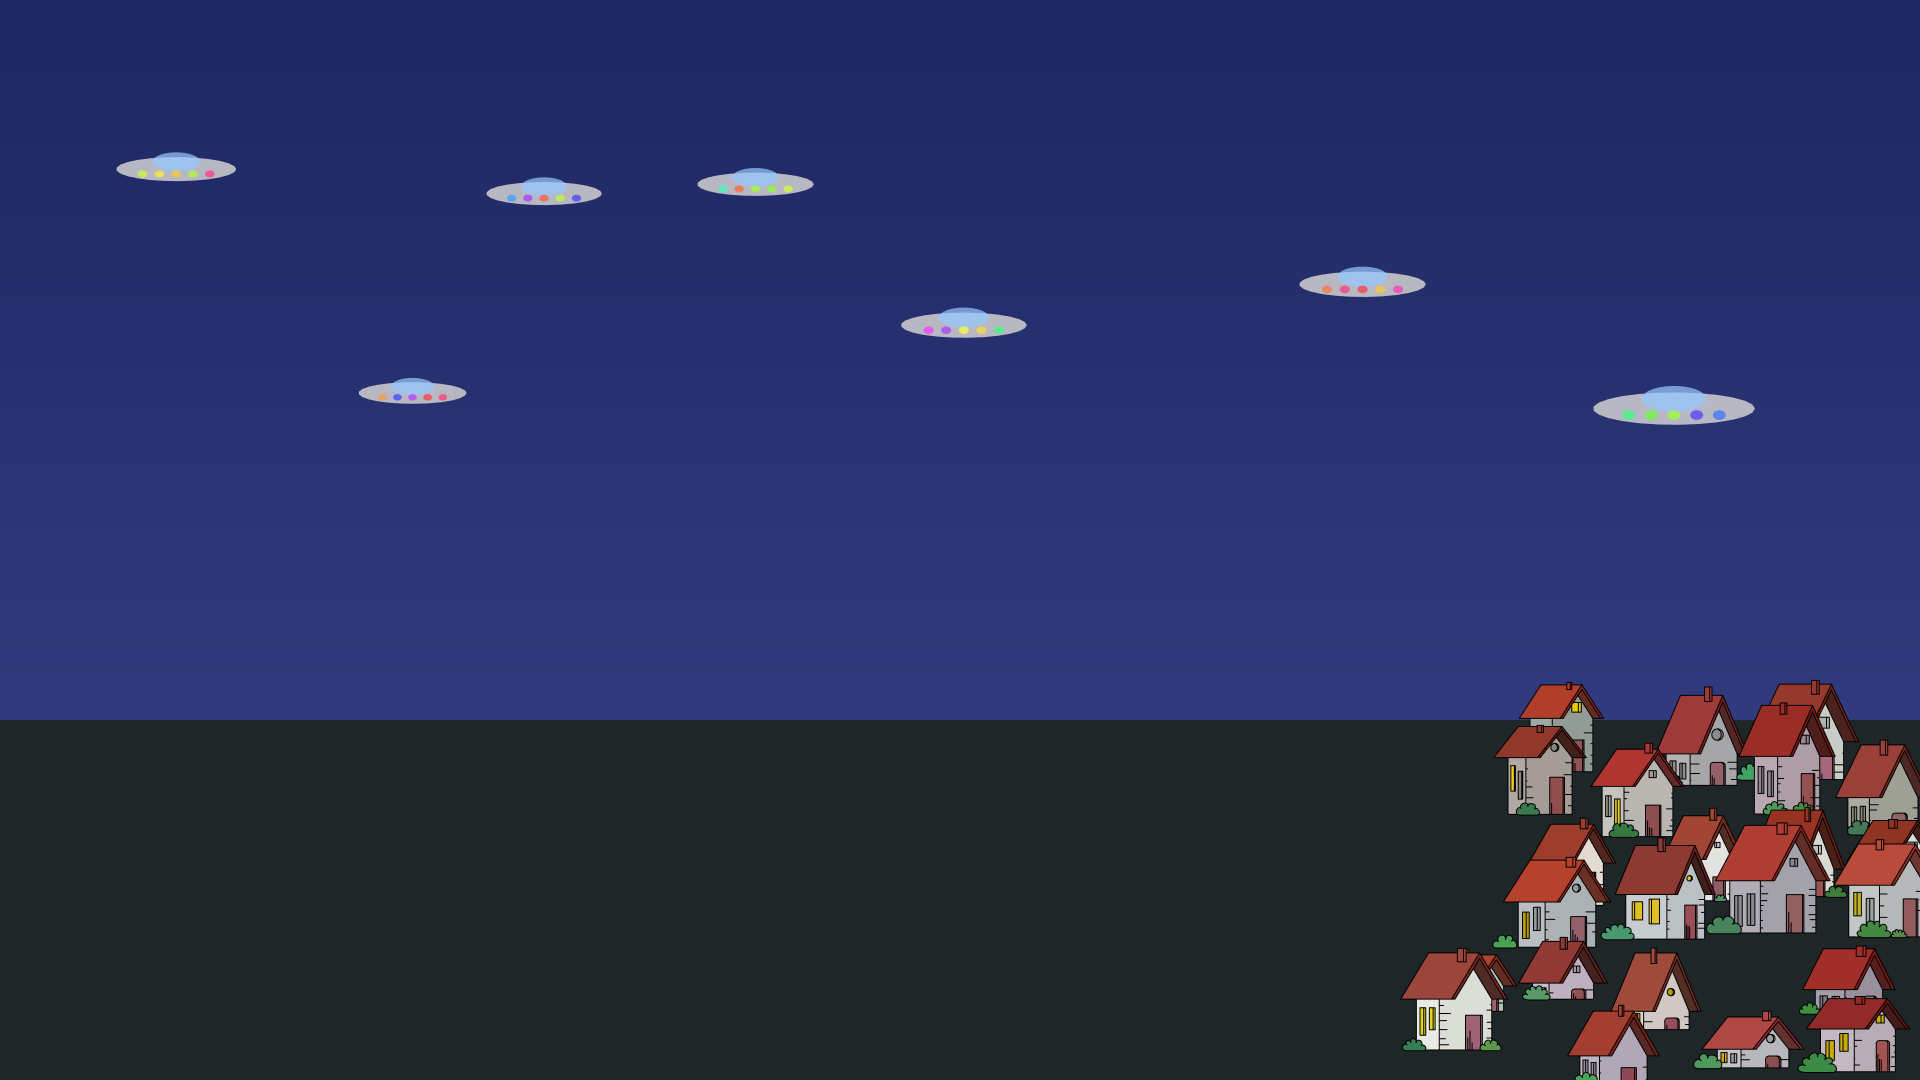
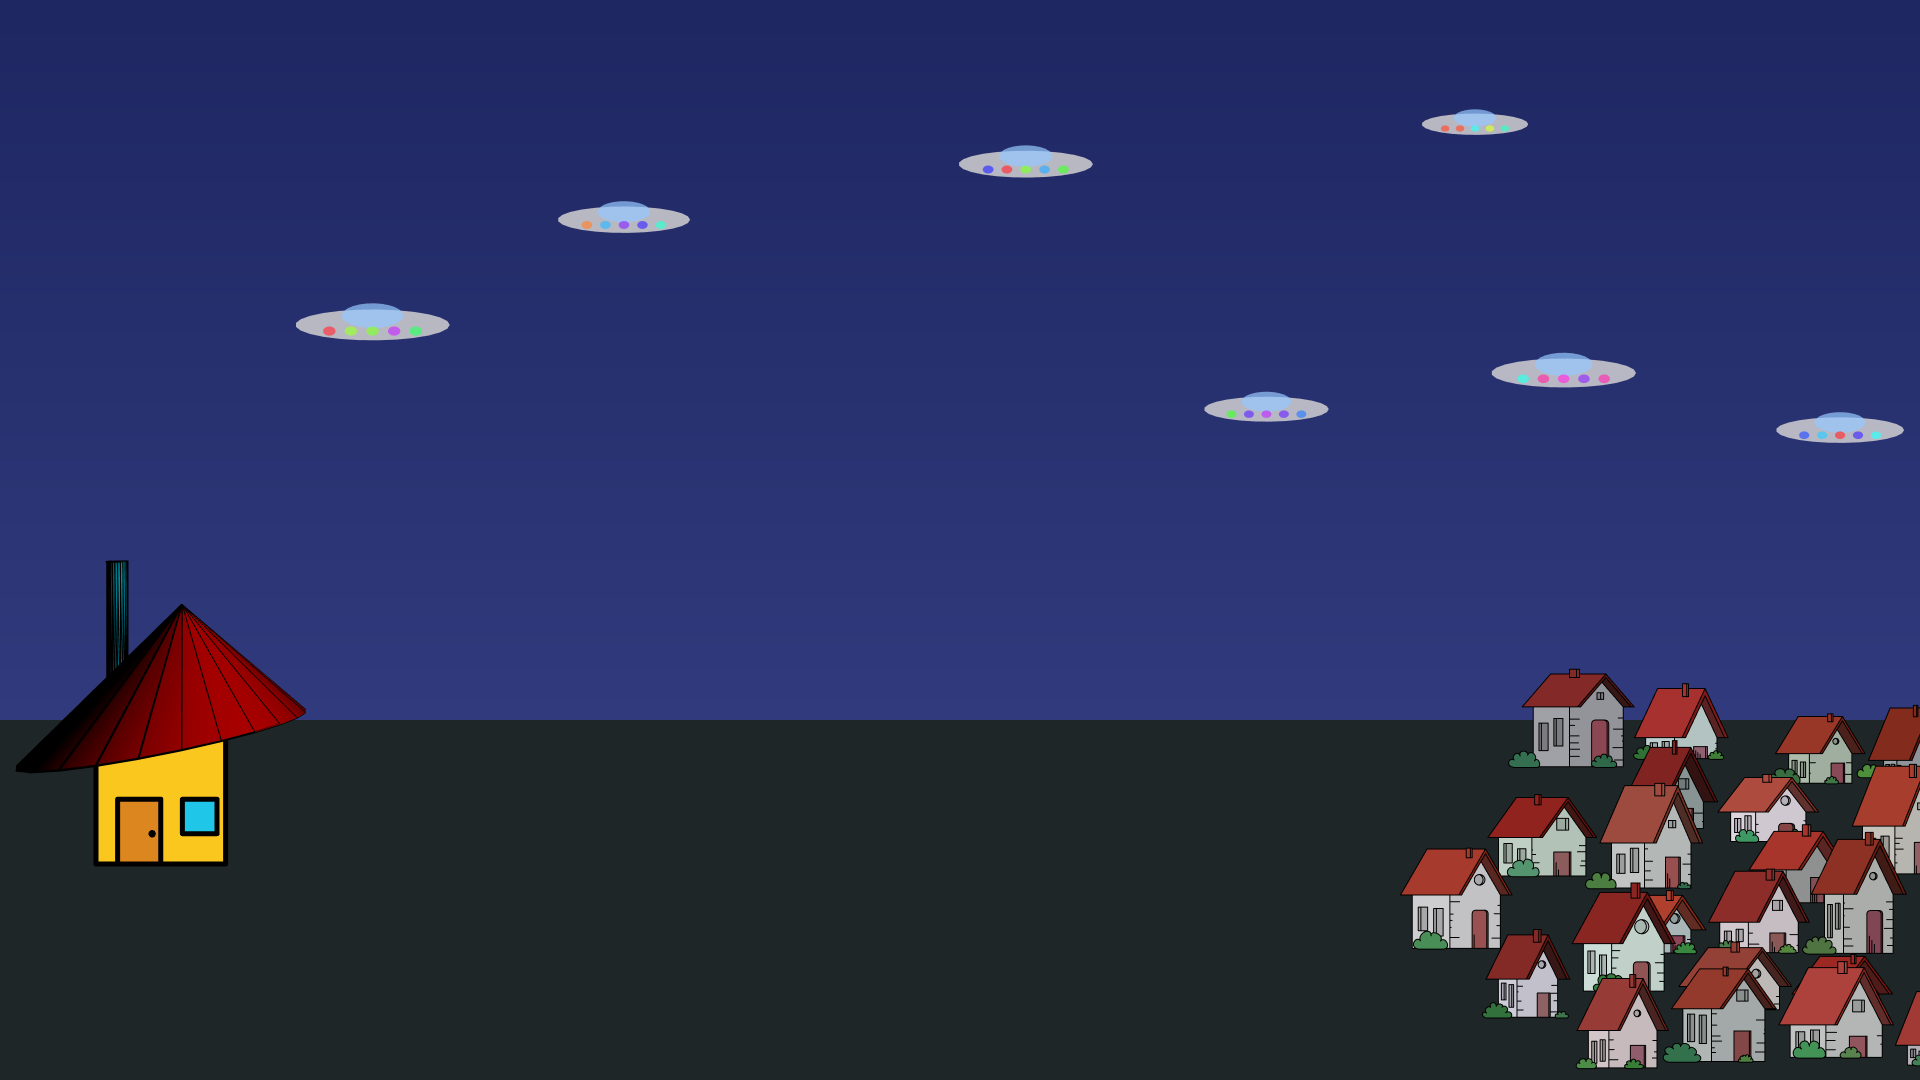
added Jos

diff --git a/contributors/jos/huisklein.js b/contributors/jos/huisklein.js
@@ -1,0 +1,33 @@
+let width = 3840, height = 2160;
+let x = width/2; let y = height/2; let n = height/25;
+export function huizen() {
+push();
+ strokeWeight(10);
+ fill(250, 199, 30);
+ rect(x-20*n, y+4*n, 3*n, 3.5*n );//facade
+ fill('#DB861E');
+ rect(x-19.5*n, y+6*n, n, n*1.5 );//door
+ fill('#20c6e8');
+ rect(x-18*n, y+6*n, n*0.8, n*0.8 );//window
+ strokeWeight(15);
+ point(x-18.7*n, y+6.8*n);//doorknob
+ noFill();
+
+strokeWeight(4);
+	push();
+	  translate(x-18*n, y+3*n,); //cone as a roof
+		rotate(PI);
+		fill(250, 0, 0);
+		pointLight(255,0,0, x, y-10*n, 0);
+	  cone(1.5*n, 3*n);
+  pop();
+
+	push();
+		translate(x-19.5*n,y+2*n); //Cylinden as a chimney
+		rotate(PI);
+		fill('#1FC0DB');
+		pointLight(0,255,255, x, y-10*n, 0);
+		cylinder(n*0.1, 3*n);
+	pop();
+pop();
+}

diff --git a/sketch.js b/sketch.js
@@ -1,6 +1,7 @@
 // import your functions here
 import { earthAndSky } from './contributors/aidan/earth-and-sky.js';
 import { UFOs } from './contributors/bedir/ufos.js';
+import { huizen } from './contributors/jos/huisklein.js';
 import { getHouses } from './contributors/stanko/houses.js';
 
 const drawingFunctions = [
@@ -9,6 +10,7 @@ const drawingFunctions = [
 	earthAndSky,
 	UFOs,
 	getHouses,
+	huizen,
 ];
 let functionIndex = 0;
 
